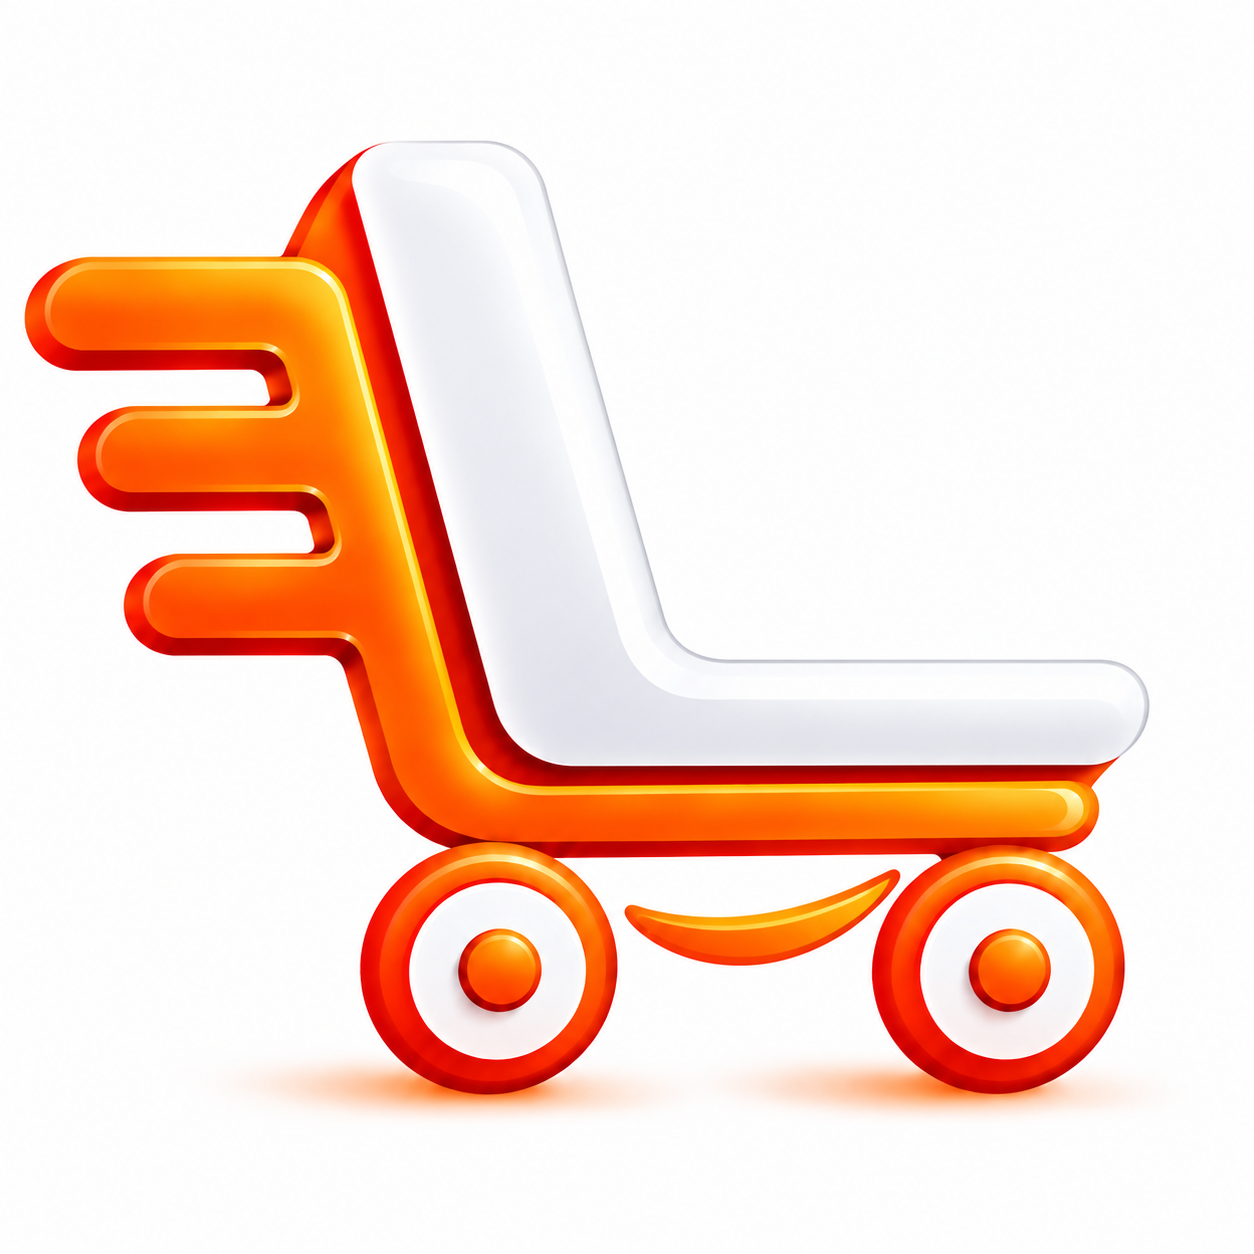
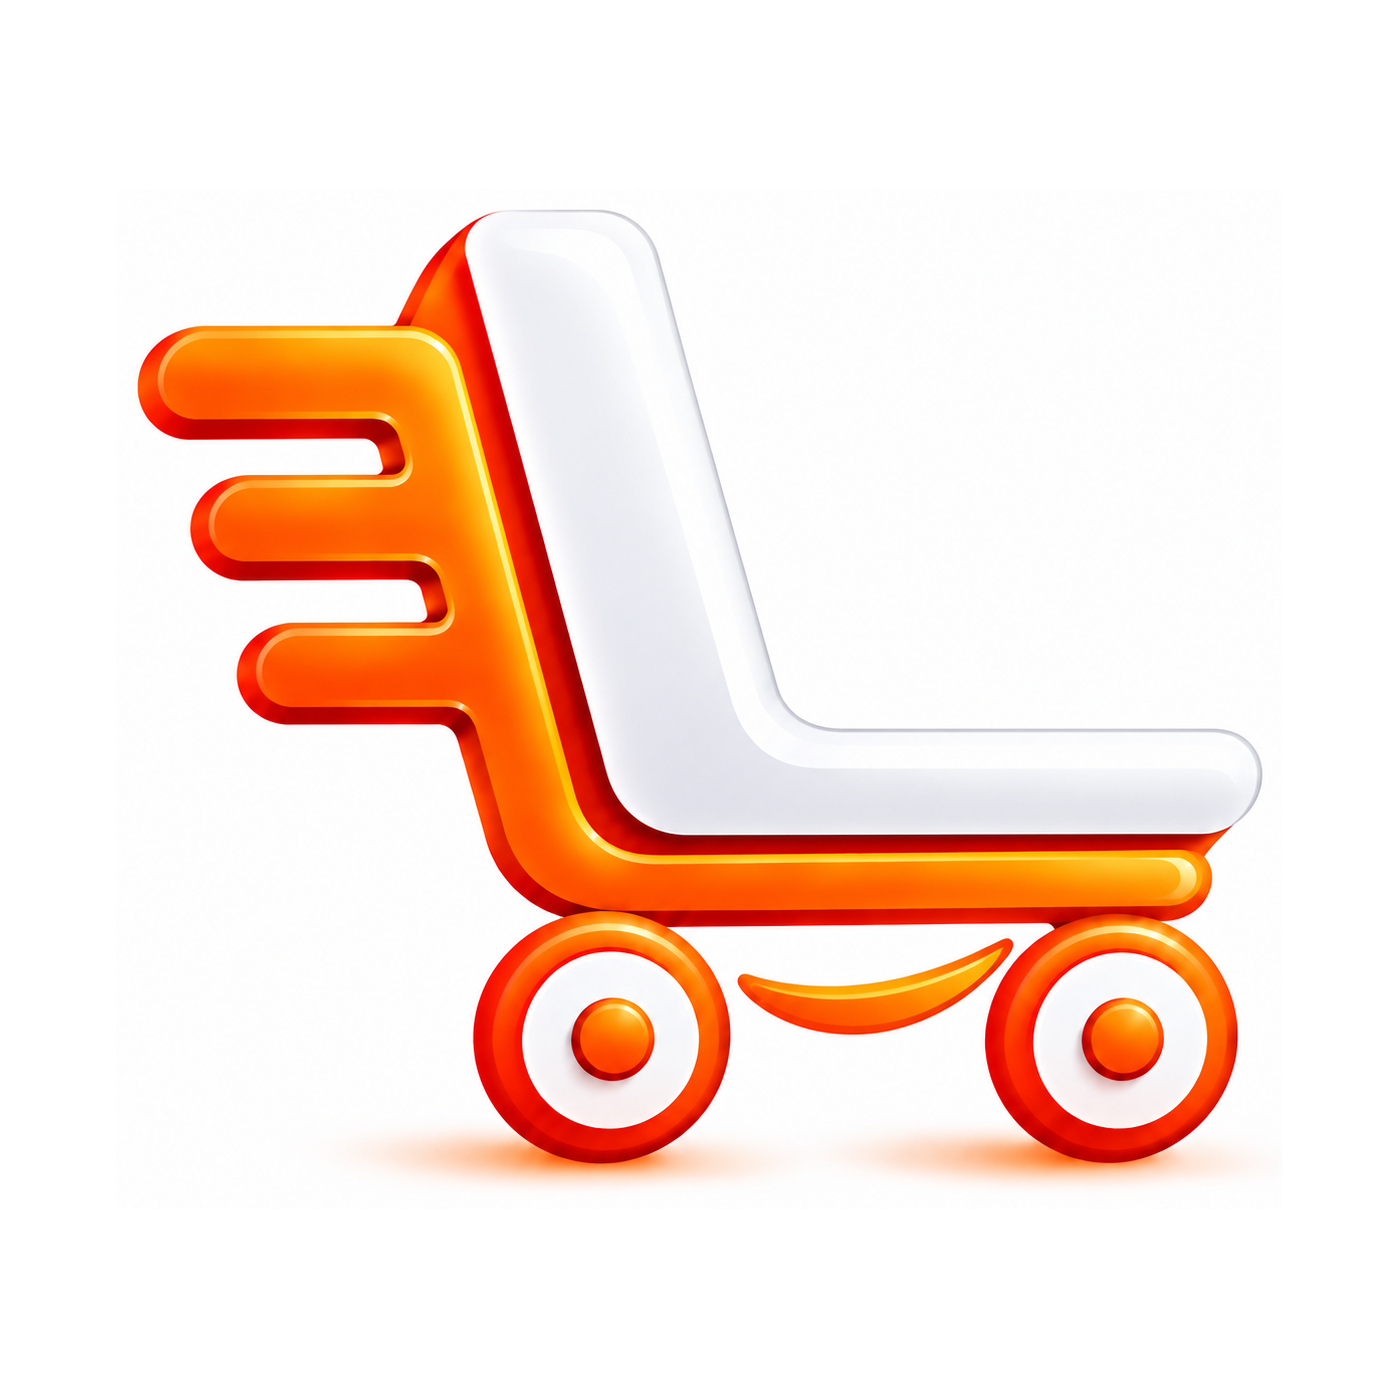
fix: alinha e aumenta o nome ao lado do carrinho no cabeçalho
A imagem da marca tinha uma margem desigual (mais espaço vazio à
direita e embaixo), então ao lado do texto "LeuPlace" ela parecia
descentralizada. Recentralizei a arte e aumentei um pouco o tamanho no
cabeçalho.

Claude-Session: https://claude.ai/code/session_01NeaR7mb7hA3ppBD6bwaoZL

diff --git a/lib/widgets/app_header.dart b/lib/widgets/app_header.dart
@@ -23,8 +23,8 @@ class AppHeader extends ConsumerWidget implements PreferredSizeWidget {
         child: Row(
           children: [
             const AppLogo(
-              markSize: 46,
-              wordmarkFontSize: 20,
+              markSize: 50,
+              wordmarkFontSize: 22,
               showTagline: false,
               horizontal: true,
             ),
